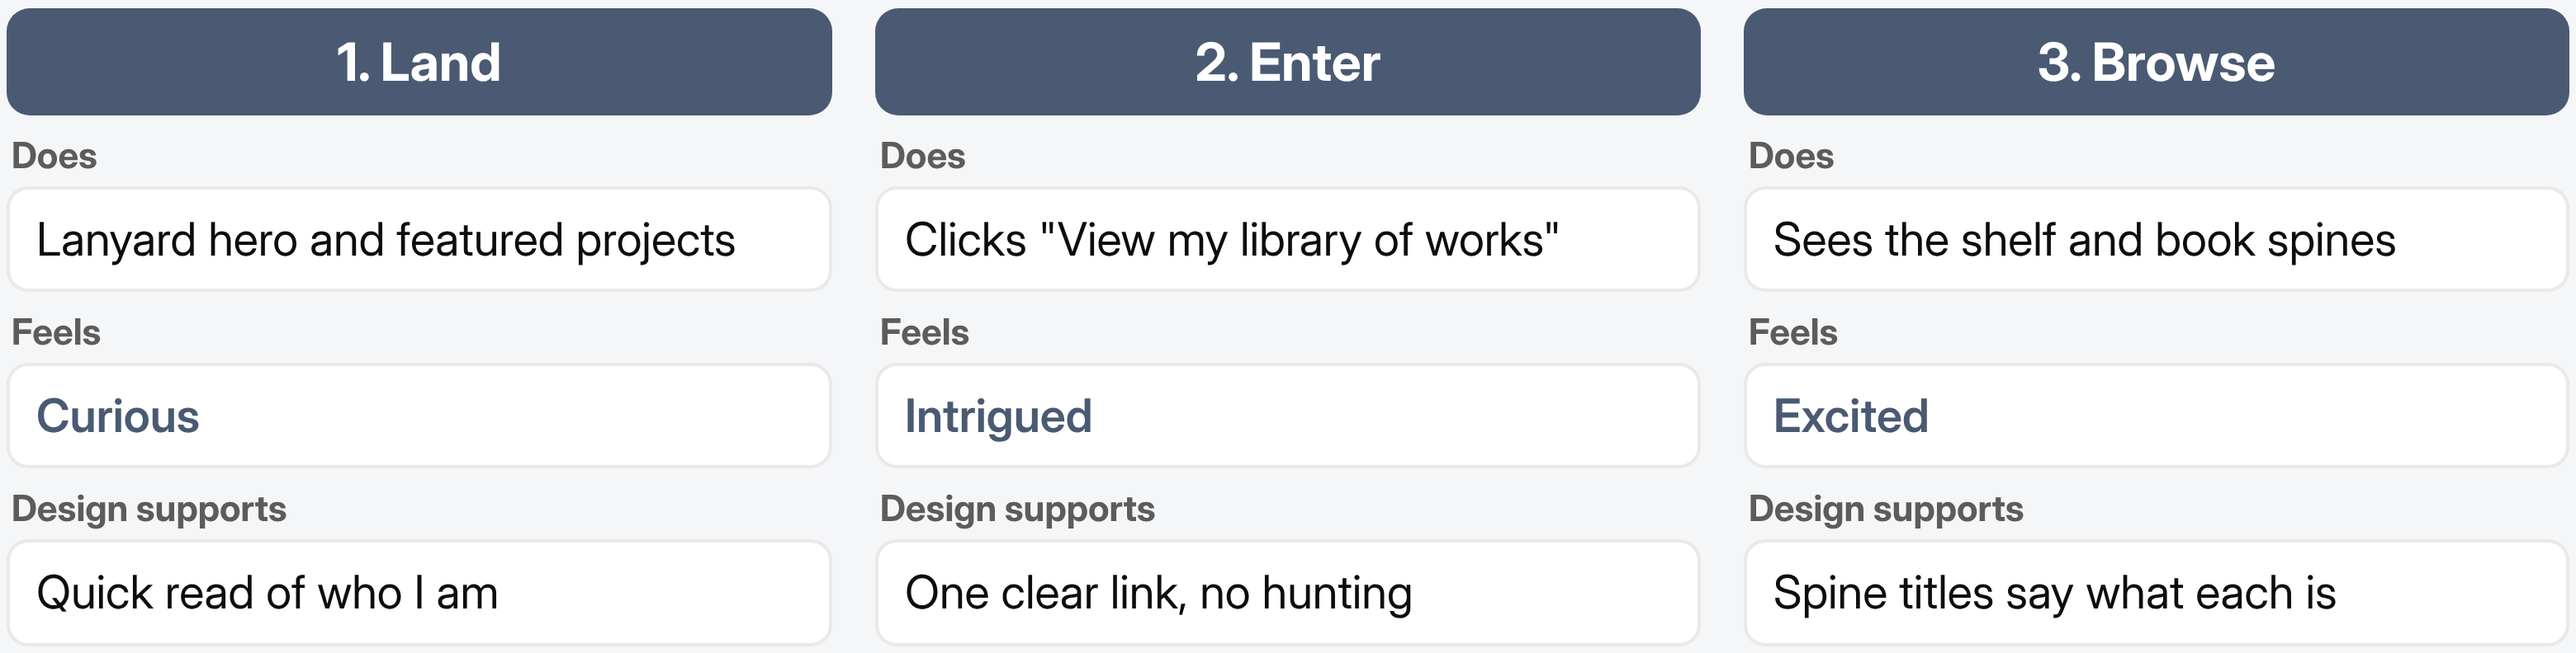
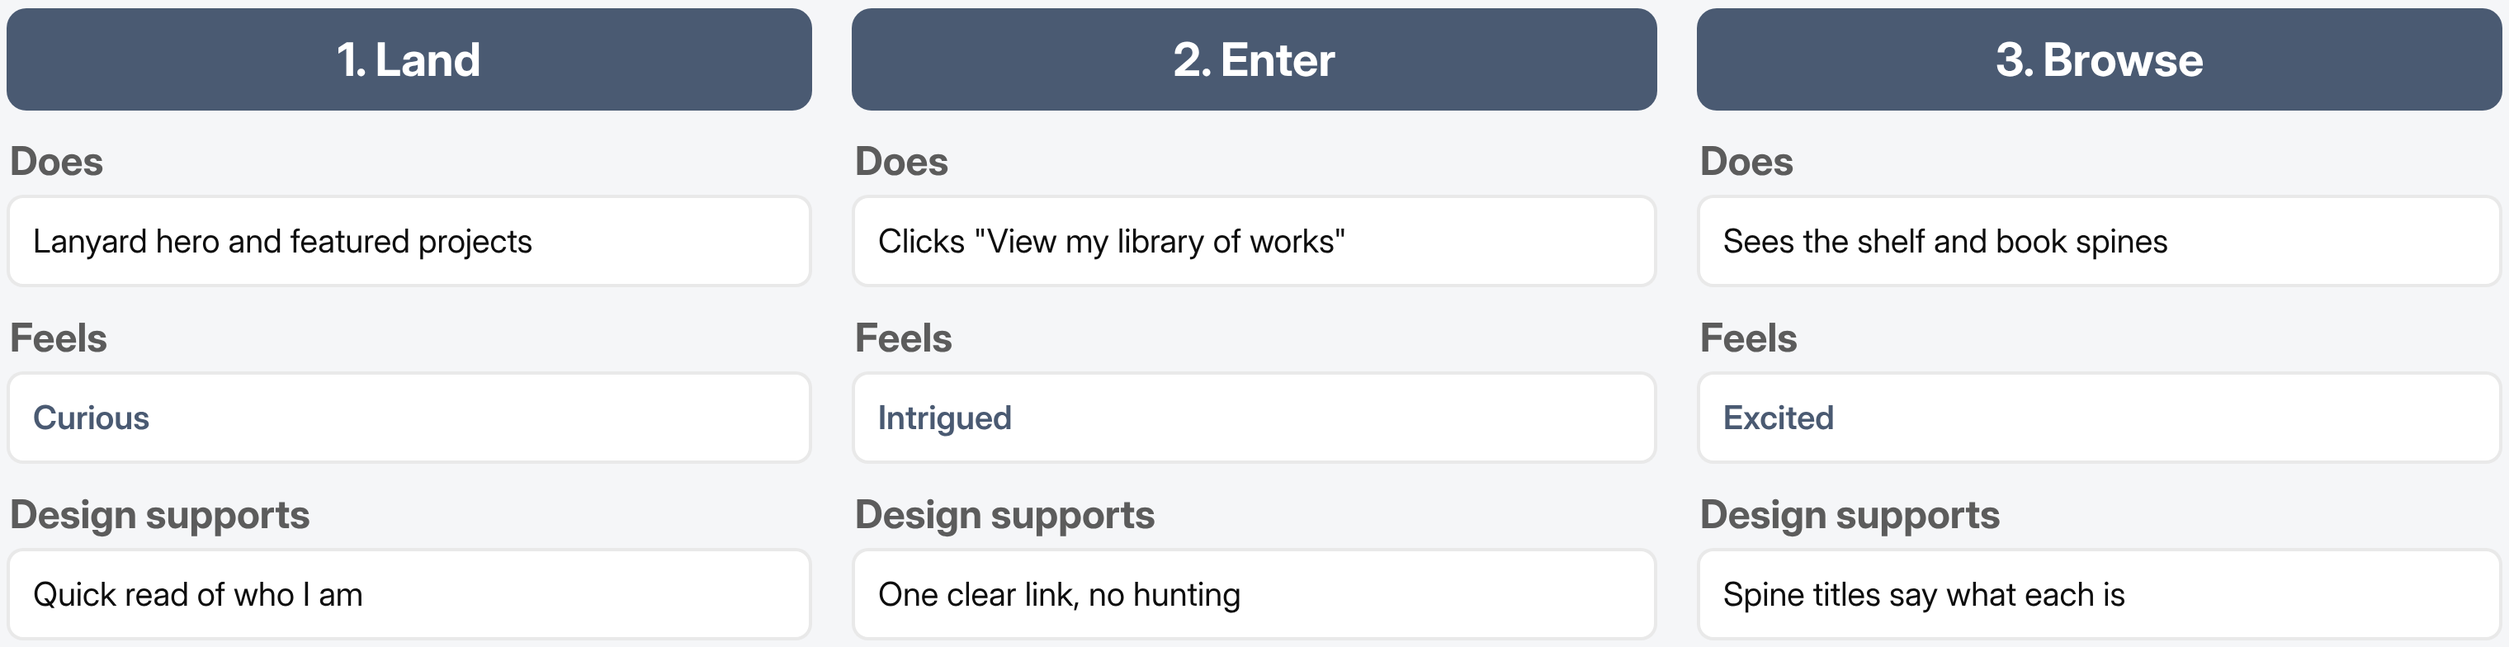
direct links

diff --git a/src/main.js b/src/main.js
@@ -2670,6 +2670,7 @@ function openBook(book) {
   lastReadSide = 1;
   syncZoomButton();
   readingTitle.textContent = project.title;
+  syncBookUrl(project); // this book now has its own address
   readingPanel.classList.add("visible");
   updatePreviewPanel(); // readingState is set above, so this hides the preview panel
 
@@ -2793,6 +2794,7 @@ function closeBook() {
   state.closing = true; // any still-running opening callback must now stand down
   bookDrag = null;
   setCabinetVisible(true); // the book is about to fly back into it
+  syncBookUrl(null); // back to the plain library address
   readingPanel.classList.remove("visible");
   exitReadingControls();
   setHoveredTab(null); // reset any tab left mid-glow/scaled from hovering
@@ -2954,6 +2956,40 @@ const readingClose = document.getElementById("reading-close");
 readingPrev.addEventListener("click", flipPrev);
 readingNext.addEventListener("click", flipNext);
 readingClose.addEventListener("click", closeBook);
+
+// Every book is addressable: library.html?book=<slug>. openBook/closeBook keep
+// the address bar in step with what's open, via replaceState so the back button
+// still leaves the library rather than walking back through books one by one.
+// The link button copies whatever that address currently is.
+function bookUrl(project) {
+  const url = new URL(location.href);
+  if (project) url.searchParams.set("book", project.slug);
+  else url.searchParams.delete("book");
+  return url;
+}
+
+function syncBookUrl(project) {
+  try {
+    history.replaceState(history.state, "", bookUrl(project));
+  } catch {
+    /* file:// and the like have no session history to write to */
+  }
+}
+
+const readingLink = document.getElementById("reading-link");
+readingLink?.addEventListener("click", async () => {
+  const project = readingState?.project;
+  if (!project) return;
+  const href = bookUrl(project).href;
+  try {
+    await navigator.clipboard.writeText(href);
+    showToast(`Link copied. It opens ${project.title} straight away.`);
+  } catch {
+    // clipboard blocked (insecure context or permission denied): show the link
+    // so it can still be copied by hand
+    showToast(href, 9000);
+  }
+});
 
 const paperPanel = document.getElementById("paper-panel");
 const paperTitle = document.getElementById("paper-title");
@@ -4183,13 +4219,17 @@ function maybeAnnounceSound() {
 // in, instead of the shelf popping in half-textured.
 // -----------------------------------------------------------------------
 
-// library.html?book=<folder name> (the home page's "View process book"
-// buttons) opens that book once the shelf has settled: the first tap pulls
-// it out, the second opens it, same as tapping its chip twice.
+// library.html?book=<slug> opens that book once the shelf has settled: the
+// first tap pulls it out, the second opens it, same as tapping its chip twice.
+// Matched through slugify() on both sides, so the tidy form this page now puts
+// in the address bar ("bookshelf-portfolio") and the raw folder name
+// ("Bookshelf%20Portfolio") both land on the same book.
 function openBookFromUrl() {
-  const wanted = new URLSearchParams(location.search).get("book")?.toLowerCase();
+  const raw = new URLSearchParams(location.search).get("book");
+  if (!raw) return;
+  const wanted = slugify(raw);
   if (!wanted) return;
-  const book = activeShelf.shelfBooks.find((b) => b.userData.project.folder.toLowerCase() === wanted);
+  const book = activeShelf.shelfBooks.find((b) => b.userData.project.slug === wanted);
   if (!book) return;
   setTimeout(() => {
     selectBookFromList(book);

diff --git a/library.html b/library.html
@@ -82,6 +82,7 @@
     <button id="reading-next" type="button" class="reading-ui reading-edge reading-edge-right" aria-label="Next page" title="Next page"><svg viewBox="0 0 24 24" aria-hidden="true"><path d="M9 5l7 7-7 7"/></svg></button>
     <div id="reading-tools" class="reading-ui">
       <button id="sound-toggle" type="button" class="tool-btn" aria-pressed="false" aria-label="Page-turn sound" title="Page-turn sound"><svg viewBox="0 0 24 24" aria-hidden="true"><path d="M4 9v6h4l5 4V5L8 9z"/><path class="waves" d="M16 9c1.5 1.5 1.5 4.5 0 6M18.5 6.5c3 3 3 8 0 11"/><path class="mute" d="M16 9l5 6M21 9l-5 6"/></svg></button>
+      <button id="reading-link" type="button" class="tool-btn" aria-label="Copy link to this book" title="Copy link to this book"><svg viewBox="0 0 24 24" aria-hidden="true"><path d="M10.6 13.4a4 4 0 0 0 5.7 0l3-3a4 4 0 0 0-5.7-5.7l-1.3 1.3"/><path d="M13.4 10.6a4 4 0 0 0-5.7 0l-3 3a4 4 0 0 0 5.7 5.7l1.3-1.3"/></svg></button>
       <button id="reading-close" type="button" class="tool-btn" aria-label="Close book" title="Close book (Esc)"><svg viewBox="0 0 24 24" aria-hidden="true"><path d="M6 6l12 12M18 6L6 18"/></svg></button>
     </div>
 
